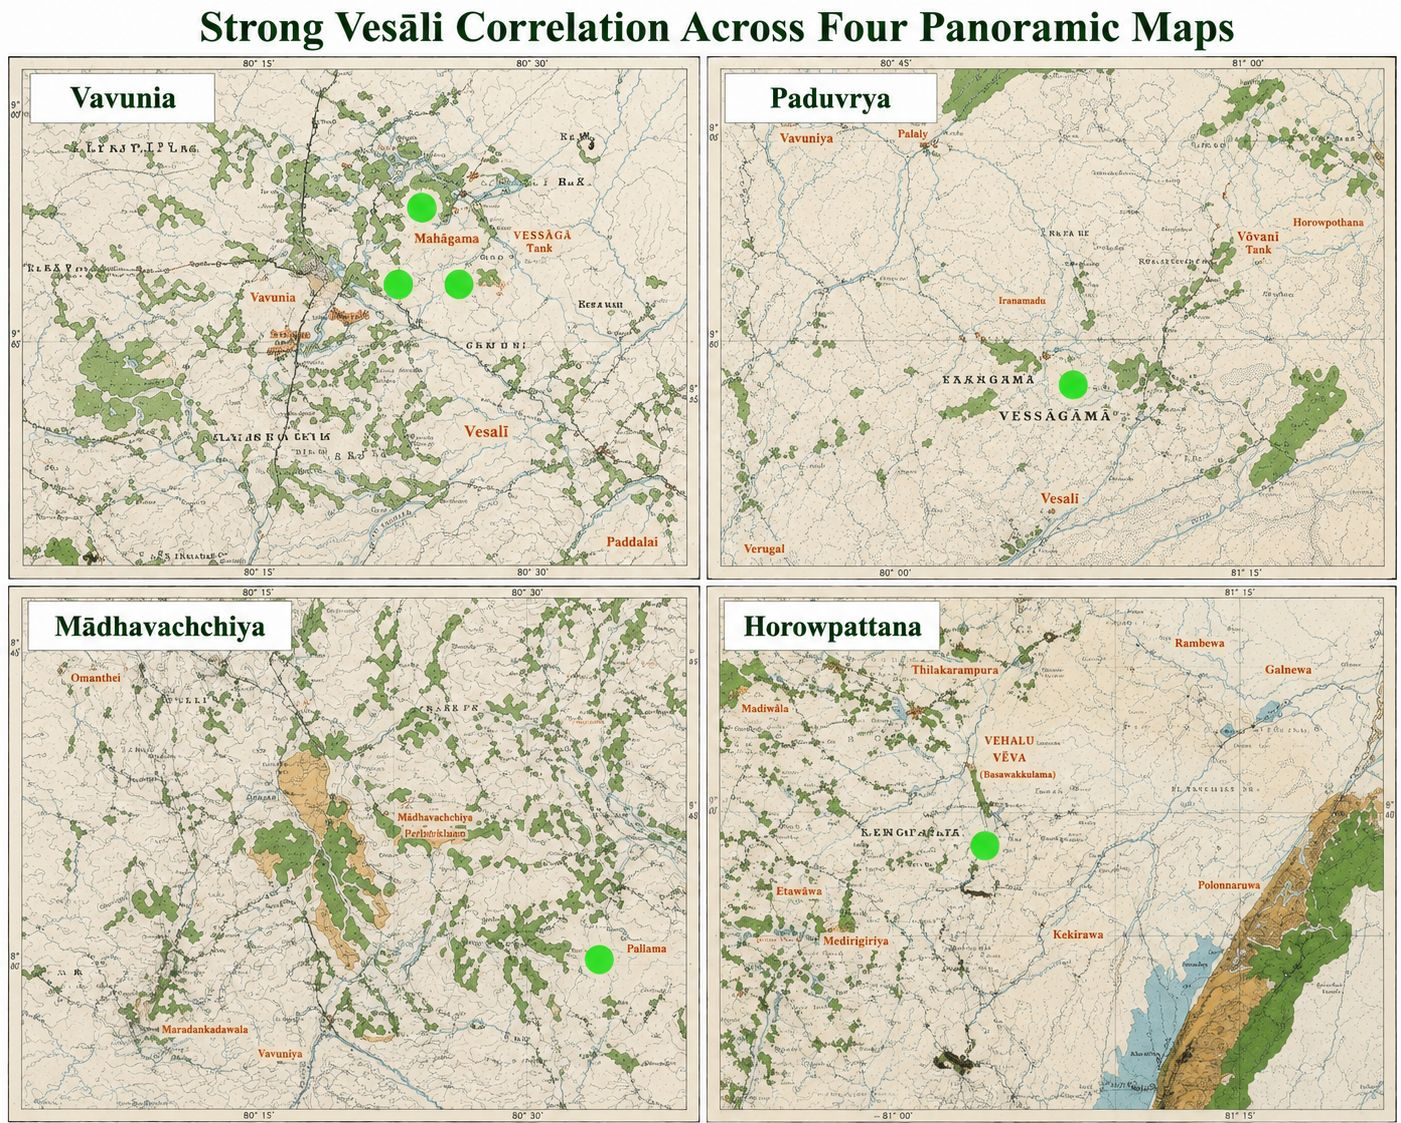
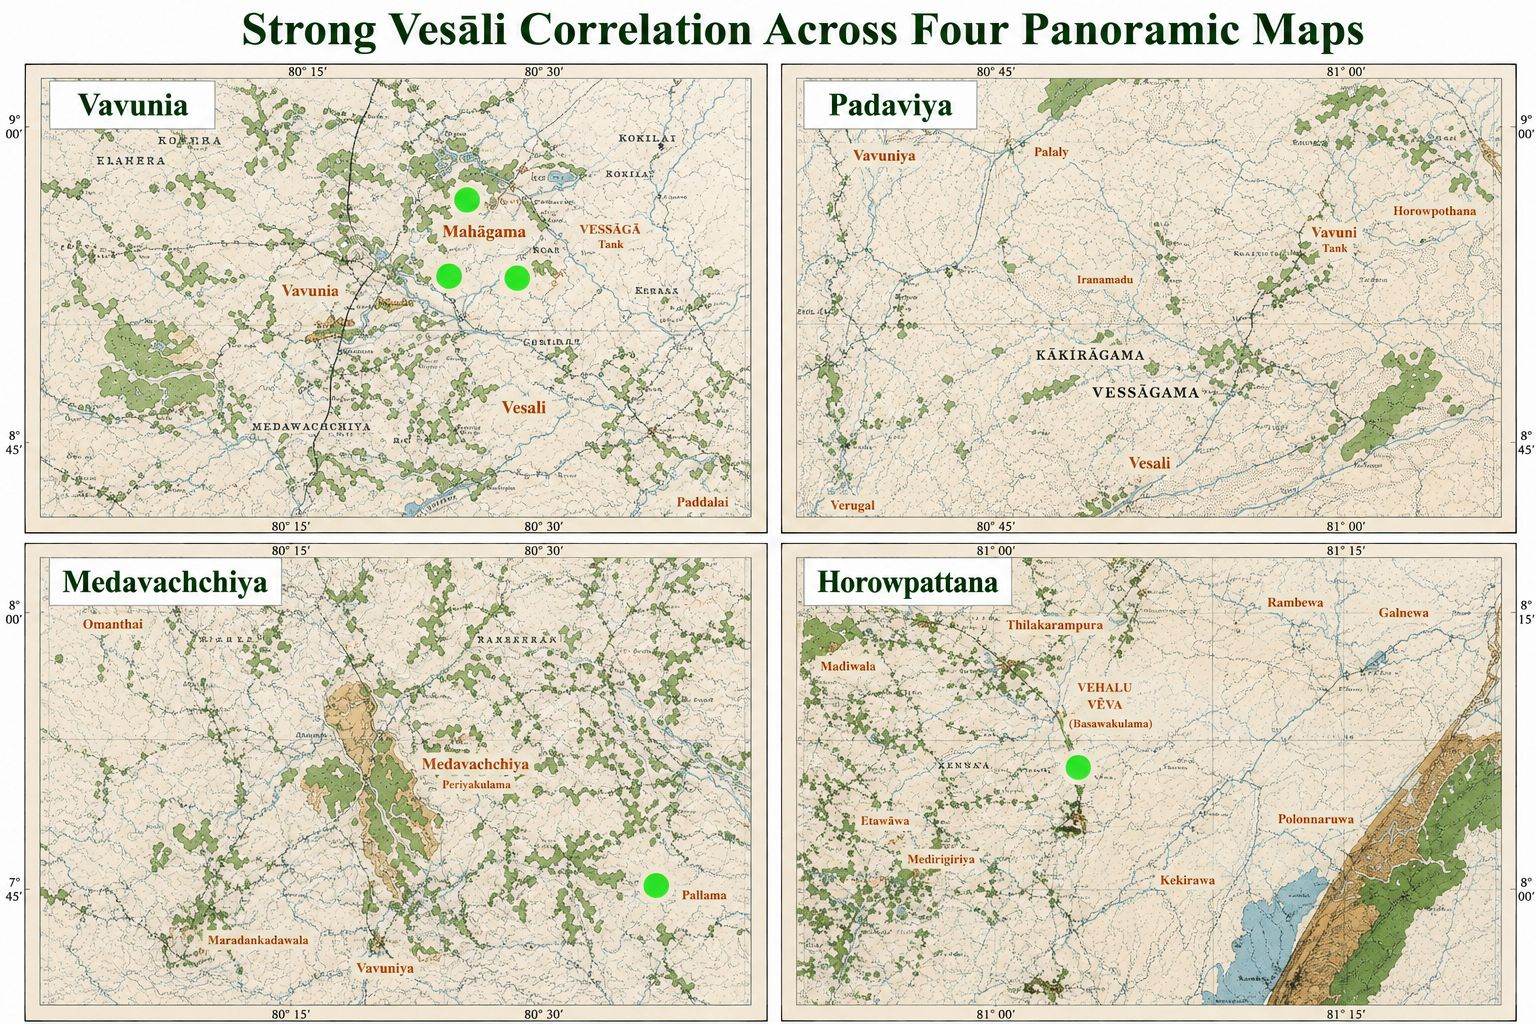
new changers and add short discription

diff --git a/index.html b/index.html
@@ -621,12 +621,50 @@
         <a class="btn primary" href="#discoveries">Explore the Discoveries</a>
         <a class="btn ghost" href="#evidence">Examine the Evidence</a>
       </div>
-      <div class="hero-questions">
-        <a class="hq" href="#about"><span>01</span>Why does this research matter?</a>
-        <a class="hq" href="#about"><span>02</span>What is Antiquity Recalibrated?</a>
-        <a class="hq" href="#research"><span>03</span>How is it different?</a>
-        <a class="hq" href="#discoveries"><span>04</span>Where do I begin?</a>
-      </div>
+      
+
+  <div class="hero-questions">
+
+  <details class="hq">
+    <summary>
+      <span>01</span>
+      Why does this research matter?
+    </summary>
+    <p>
+      Discover why ancient geography should be tested again against material and spatial evidence.
+    </p>
+  </details>
+
+  <details class="hq">
+    <summary>
+      <span>02</span>
+      What is Antiquity Recalibrated?
+    </summary>
+    <p>
+An independent investigation connecting inscriptions, texts, measurements, maps and landscapes.    </p>
+  </details>
+
+  <details class="hq">
+    <summary>
+      <span>03</span>
+      How is it different?
+    </summary>
+    <p>
+The reconstruction begins with locatable evidence rather than an assumed historical map.    </p>
+  </details>
+
+  <details class="hq">
+    <summary>
+      <span>04</span>
+      Where do I begin?
+    </summary>
+    <p>
+Start with the ancient yojana—the question from which the wider investigation emerged.    </p>
+  </details>
+
+</div>
+
+
     </div>
   </section>
 
